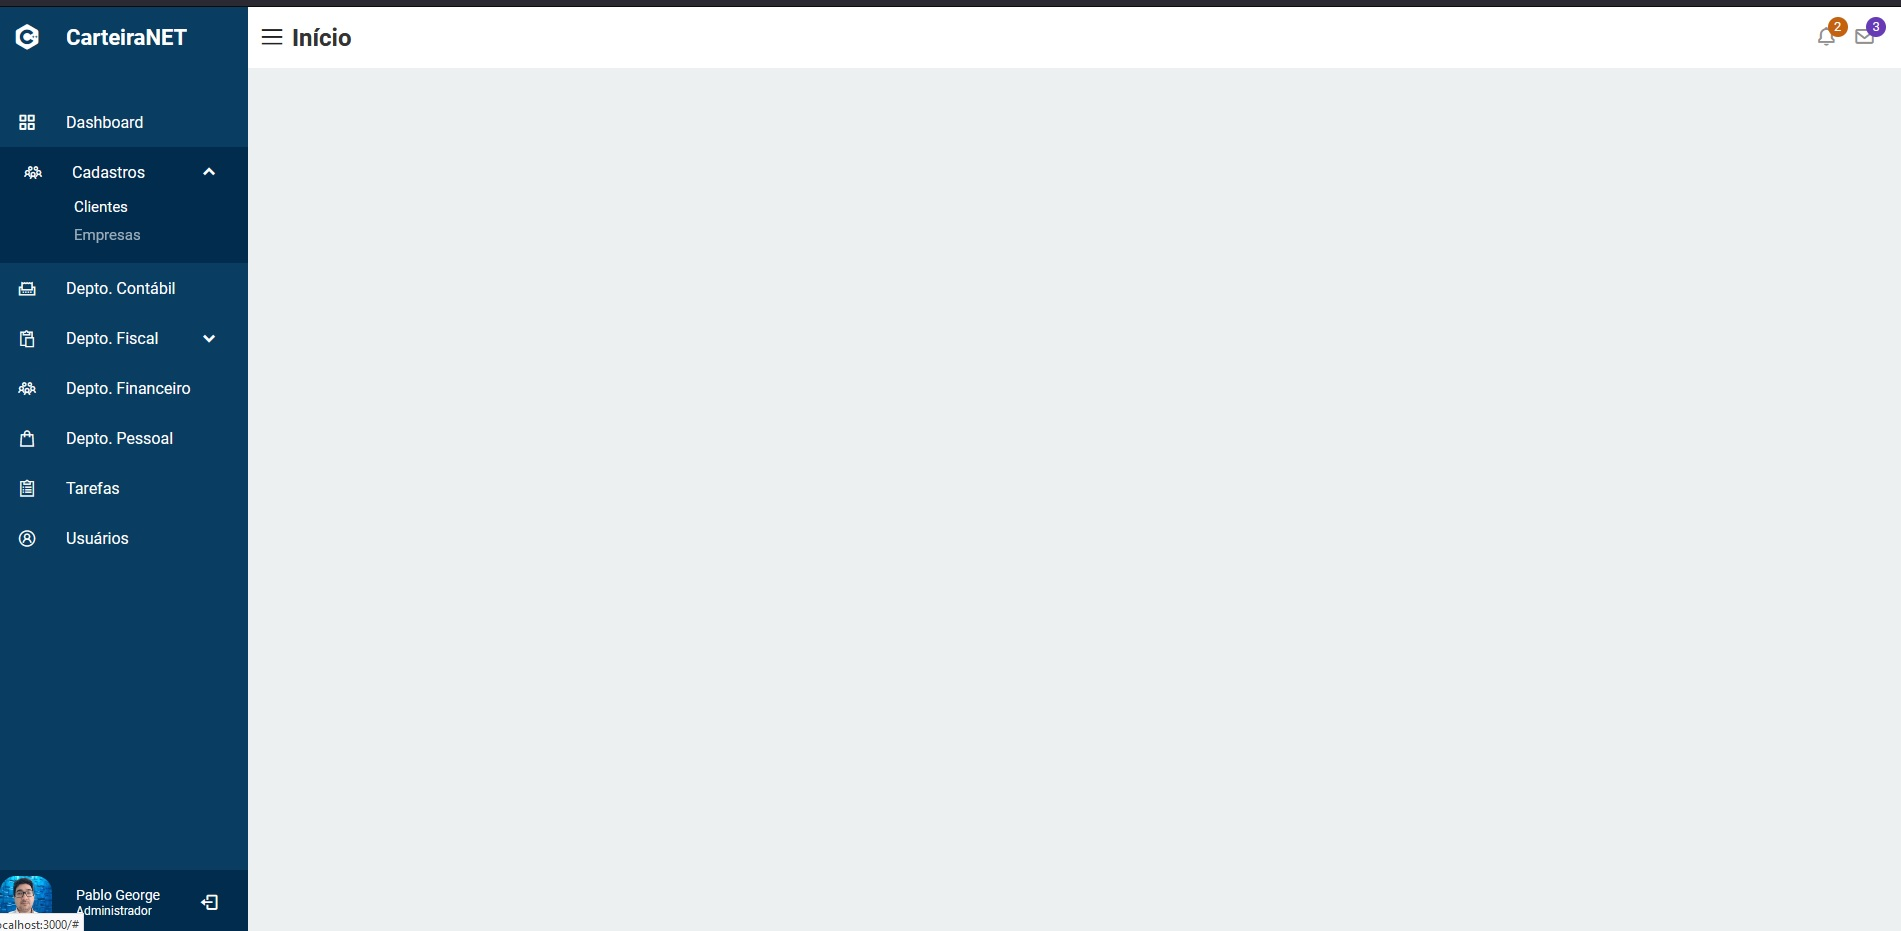
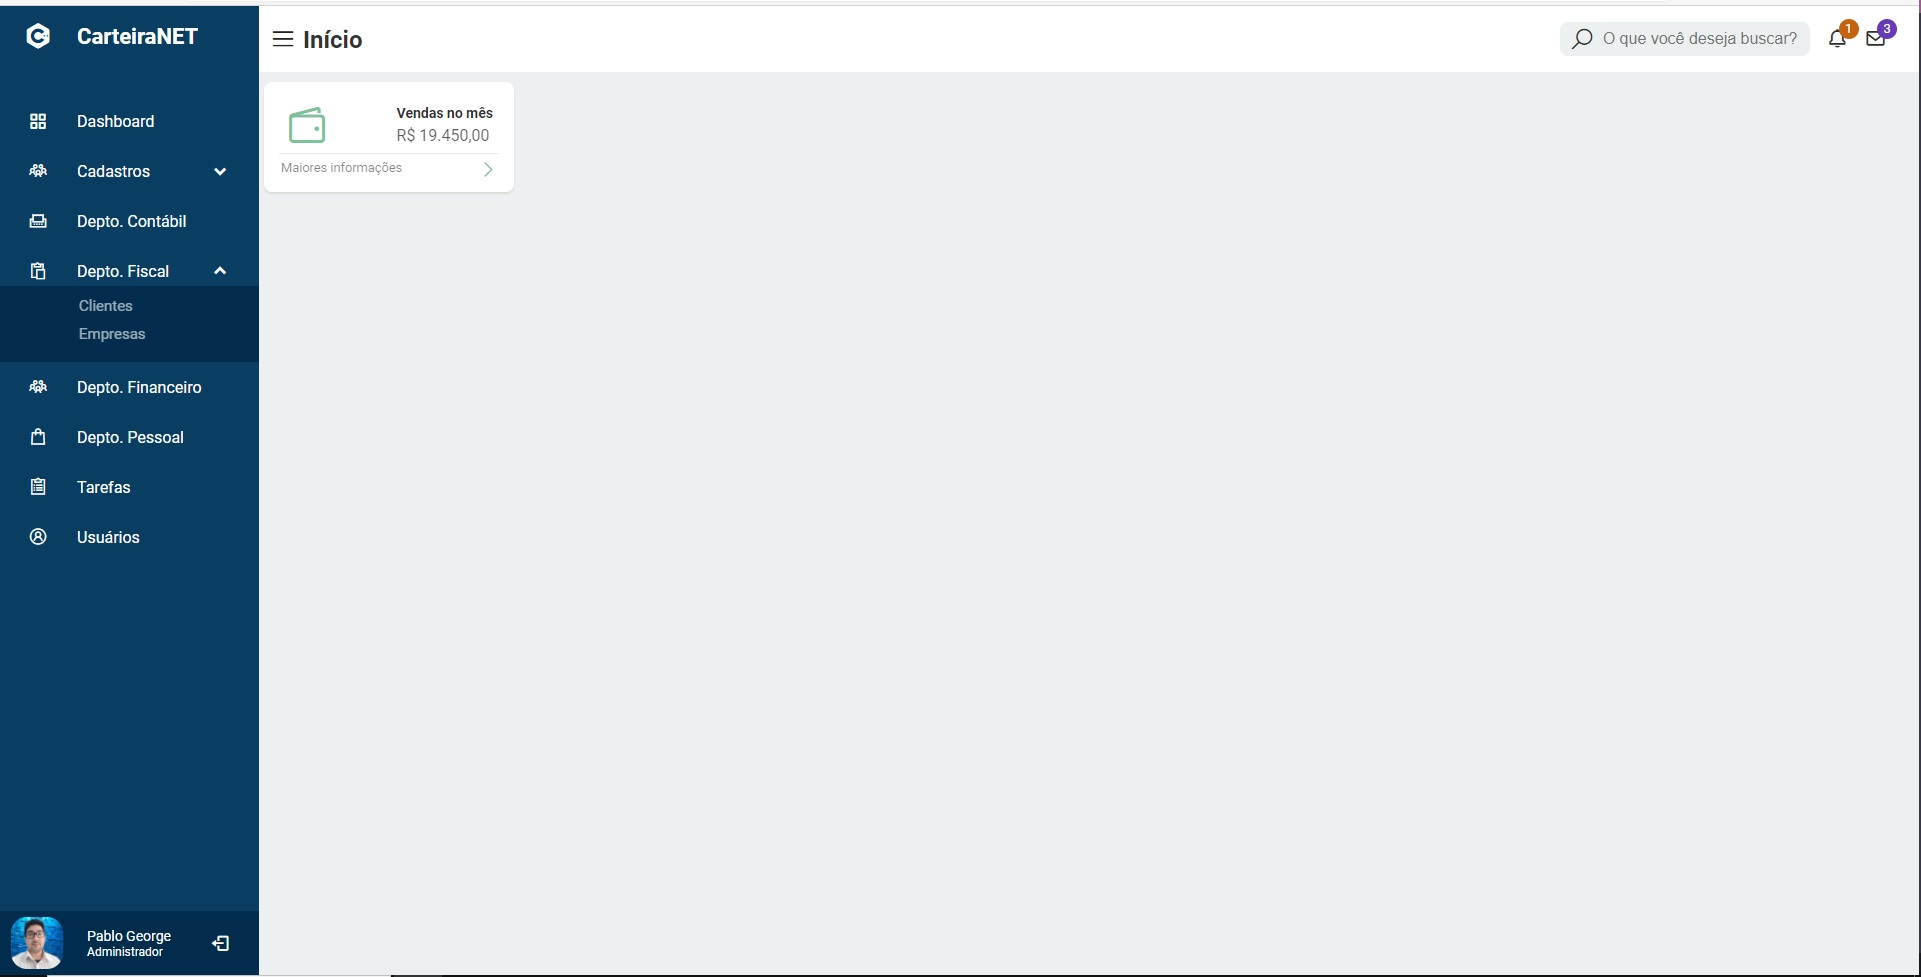
início da criação do componente card

Changed region(s): [[0.0, 0.0, 1.0, 1.0], [0.2173, 0.0934, 0.2483, 0.1557]]

diff --git a/src/components/Card/styles.ts b/src/components/Card/styles.ts
@@ -1,0 +1,74 @@
+import styled from 'styled-components'
+
+export const Container = styled.div`  
+  max-width: 250px;
+  //height: 320px;
+
+  display: flex;
+  flex-direction: column;
+  justify-content: space-between;
+  border-radius: 8px;
+  box-shadow: 0 2px 2px rgb(204 197 185 / 50%);
+  background-color: #FFFFFF;
+  color: #252422;
+  margin-bottom: 20px;
+  position: relative;  
+
+  .content{
+    display: flex;
+    flex-direction: column;
+    justify-content: space-around;
+    padding: 15px 15px 10px 15px;
+    color: #303030;
+
+    i{
+      font-size: 48px;
+      color: #7ac29a;
+    }
+
+   .header{
+      display: flex;
+      justify-content: space-between;
+      align-items: center;
+      border-bottom: 1px solid #eeece7;
+      padding: 4px;
+
+      i{
+        width: 100px;
+      }
+
+      & div{
+        display: flex;
+        flex-direction: column;
+
+        & span{
+          opacity: .8;
+          padding: 2px;
+        }
+
+        & span:first-of-type{
+          opacity: 1;
+          font-size: 14px;
+          font-weight: bold;
+        }
+      }
+    }
+
+    .footer{
+      display: flex;
+      justify-content: space-between;
+      margin-top: 4px;
+      padding: 2px;
+
+      span{
+        font-size: .8rem;
+        font-weight: 100;
+        opacity: .6;
+      }
+
+      i{
+        font-size: 20px;
+      }
+    }
+  }
+`

diff --git a/src/components/Badge/styles.tsx b/src/components/Badge/styles.tsx
@@ -11,12 +11,13 @@ export const Container = styled.div<IBadgeProps>`
 
     i{
       font-size: 1.4rem;      
-      color: #868383e6;
+      color: #303030;
       z-index: 100;      
     }
 
     span{     
       display: flex ;
+      text-align: center;
       justify-content: center;
       align-items: center;
       color: #fff;
@@ -24,9 +25,9 @@ export const Container = styled.div<IBadgeProps>`
       font-size: .8rem;
       font-weight: lighter;
       top: -8px;
-      right: -10px;
-      width: 20px;
-      height: 20px;      
+      right: -10px;      
+      min-width: 20px;
+      min-height: 20px;      
       border-radius: 50%;
       background-color: ${(props) => props.color}; 
     }          

diff --git a/src/components/Card/index.tsx b/src/components/Card/index.tsx
@@ -1,0 +1,22 @@
+import { Container } from './styles'
+
+export default function Card() {
+  return (
+    <Container>
+      <div className="content">
+        <div className="header">
+          <i className="las la-wallet"></i>
+          <div>
+            <span>Vendas no mês</span>
+            <span>R$ 19.450,00</span>
+          </div>
+        </div>
+
+        <div className="footer">
+          <span>Maiores informações</span>
+          <i className="las la-angle-right"></i>
+        </div>
+      </div>
+    </Container>
+  )
+}

diff --git a/src/components/Search/styles.ts b/src/components/Search/styles.ts
@@ -8,8 +8,10 @@ export const Container = styled.div`
   height: 34px;  
   border-radius: 8px;
   background: #ecf0f1;
+  
 
   i{
+    color: #303030;
     margin-left: 0;
     font-size: 26px;
   }
@@ -17,9 +19,8 @@ export const Container = styled.div`
   input{
     padding: 4px;
     font-size: 16px;
-    margin-left: 4px;
-    color: #333;    
+    margin-left: 4px;    
+    color: #303030;    
     background: transparent;
-  }
-  
+  }  
   `

diff --git a/src/pages/index.tsx b/src/pages/index.tsx
@@ -1,11 +1,16 @@
+import Card from '../components/Card';
 import Header from '../components/Header'
 import Sidebar from '../components/Sidebar'
+import Content from './../components/Content/index';
 
 export default function Home() {
   return (
     <>
       <Header />
       <Sidebar />
+      <Content>
+        <Card />
+      </Content>
     </>
   )
 }

diff --git a/src/components/Header/index.tsx b/src/components/Header/index.tsx
@@ -76,7 +76,7 @@ export default function Header() {
       </div>
       <div className="badges">
         <Search />
-        <Badge color="#c46210" value="2" icon="bx bx-bell" />
+        <Badge color="#c46210" value="1" icon="bx bx-bell" />
         <Badge color="#673ab7" value="3" icon="bx bx-envelope" />
       </div>
     </Container>
